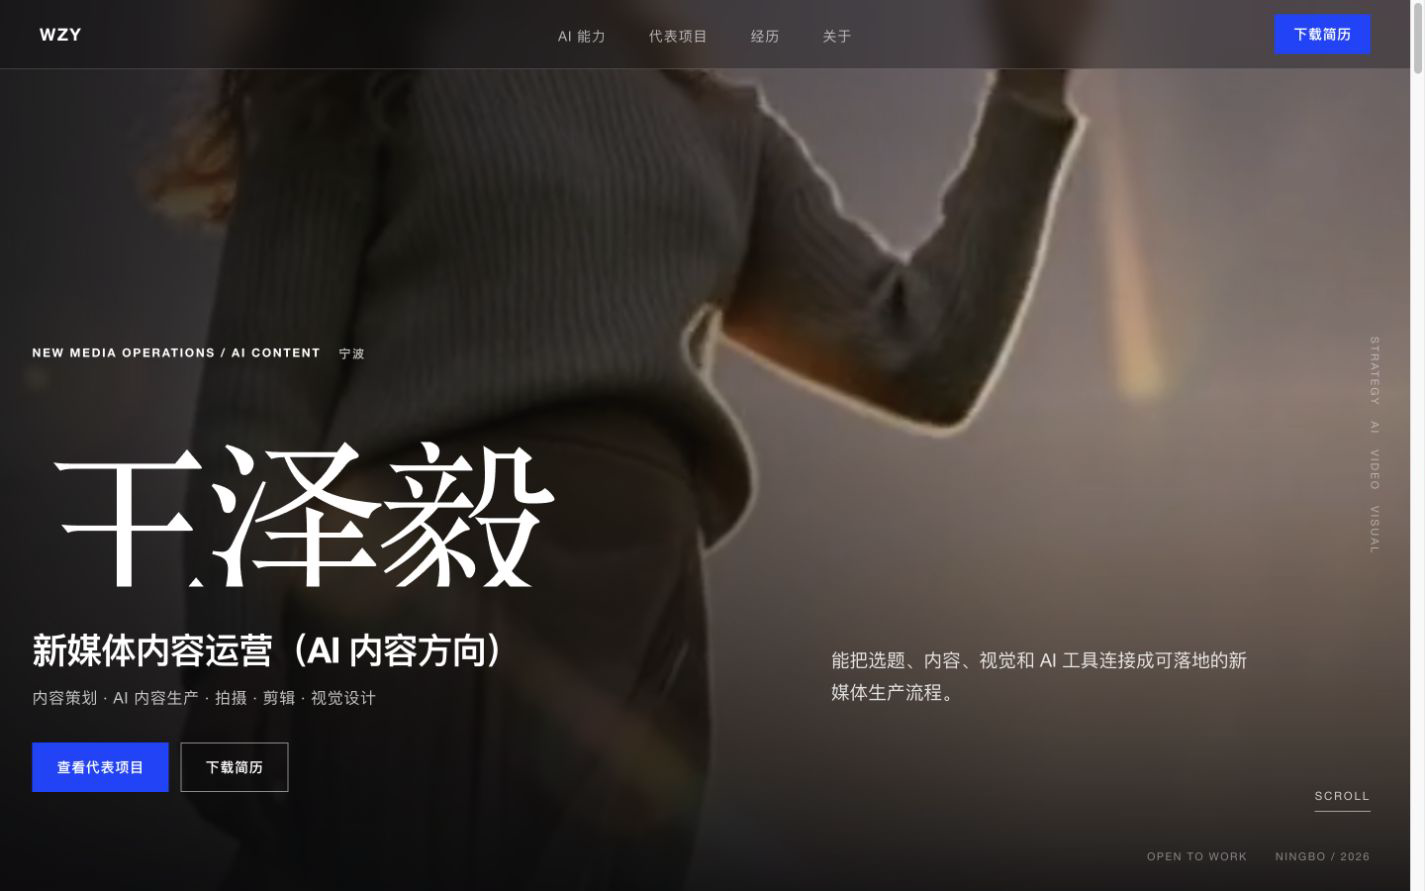
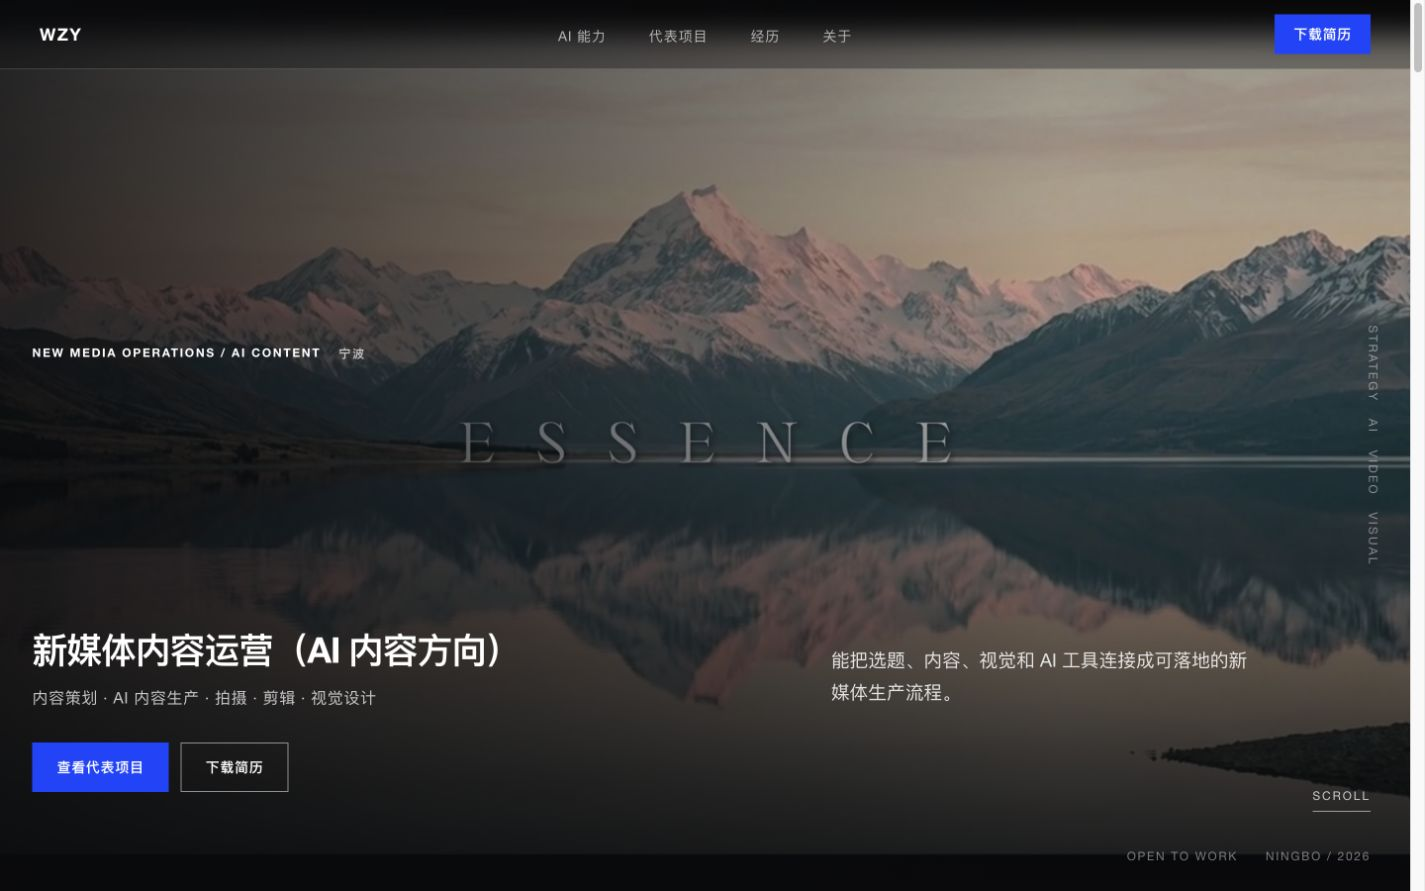
fix: complete responsive accessibility review

diff --git a/src/styles.css b/src/styles.css
@@ -5,6 +5,7 @@
   --ivory-bright: #fffdf8;
   --cobalt: #1747ff;
   --cobalt-deep: #1036c9;
+  --cobalt-on-dark: #8aa3ff;
   --gray-900: #25272d;
   --gray-700: #5e626b;
   --gray-500: #8e9299;
@@ -473,7 +474,7 @@ button {
   right: 18px;
   margin: 0;
   color: rgba(255, 255, 255, 0.46);
-  font-size: 0.68rem;
+  font-size: 0.75rem;
   letter-spacing: 0.18em;
   transform: translate(42%, -50%) rotate(90deg);
 }
@@ -485,7 +486,7 @@ button {
   display: flex;
   gap: 28px;
   color: rgba(255, 255, 255, 0.46);
-  font-size: 0.68rem;
+  font-size: 0.75rem;
   letter-spacing: 0.14em;
 }
 
@@ -496,7 +497,7 @@ button {
   padding-bottom: 8px;
   border-bottom: 1px solid rgba(255, 255, 255, 0.55);
   color: rgba(255, 255, 255, 0.76);
-  font-size: 0.72rem;
+  font-size: 0.75rem;
   letter-spacing: 0.16em;
   text-decoration: none;
 }
@@ -584,7 +585,7 @@ button {
   min-height: 5.2em;
   margin: 0 0 24px;
   color: var(--gray-700);
-  font-size: 0.925rem;
+  font-size: 1rem;
 }
 
 .ai-system__stages ul,
@@ -629,7 +630,7 @@ button {
 
 .ai-system__metric strong {
   margin-bottom: auto;
-  color: var(--cobalt);
+  color: var(--cobalt-on-dark);
   font-family: var(--display);
   font-size: clamp(4rem, 7vw, 7rem);
   font-weight: 400;
@@ -645,7 +646,7 @@ button {
 .ai-system__metric p {
   margin: 0;
   color: rgba(255, 255, 255, 0.54);
-  font-size: 0.85rem;
+  font-size: 1rem;
 }
 
 .ai-system__deliverables {
@@ -678,7 +679,7 @@ button {
 
 .ai-system__tabs button span {
   color: var(--gray-500);
-  font-size: 0.7rem;
+  font-size: 0.75rem;
 }
 
 .ai-system__tabs button[aria-selected="true"] {
@@ -778,6 +779,7 @@ button {
 
 .featured-cases__heading > .section__eyebrow {
   grid-column: 1 / 4;
+  color: var(--cobalt-on-dark);
 }
 
 .featured-cases__heading > div {
@@ -817,6 +819,7 @@ button {
   background: var(--ink-soft);
   color: #fff;
   cursor: pointer;
+  min-width: 0;
 }
 
 .featured-cases__case[data-layout="offset"] .featured-cases__media {
@@ -847,12 +850,13 @@ button {
   bottom: 16px;
   padding: 5px 8px;
   background: var(--cobalt);
-  font-size: 0.68rem;
+  font-size: 0.75rem;
   letter-spacing: 0.13em;
 }
 
 .featured-cases__copy {
   grid-column: 9 / 13;
+  min-width: 0;
   padding-bottom: 4px;
 }
 
@@ -868,7 +872,7 @@ button {
   padding-top: 14px;
   border-top: 1px solid var(--line-dark);
   color: rgba(255, 255, 255, 0.52);
-  font-size: 0.7rem;
+  font-size: 0.75rem;
   letter-spacing: 0.1em;
 }
 
@@ -883,10 +887,11 @@ button {
   font-weight: 400;
   letter-spacing: -0.055em;
   line-height: 1;
+  overflow-wrap: anywhere;
 }
 
 .featured-cases__role {
-  color: var(--cobalt);
+  color: var(--cobalt-on-dark);
   font-weight: 650;
 }
 
@@ -938,7 +943,7 @@ button {
 .featured-cases__archive summary span:last-child {
   color: var(--gray-500);
   font-family: var(--sans);
-  font-size: 0.72rem;
+  font-size: 0.75rem;
   letter-spacing: 0.12em;
 }
 
@@ -974,7 +979,7 @@ button {
 .featured-cases__archive-grid article > p {
   margin: 15px 0 3px;
   color: var(--gray-500);
-  font-size: 0.72rem;
+  font-size: 0.75rem;
   letter-spacing: 0.08em;
 }
 
@@ -1029,7 +1034,7 @@ button {
 .case-dialog__header > p {
   margin: 0;
   color: var(--gray-500);
-  font-size: 0.72rem;
+  font-size: 0.75rem;
   letter-spacing: 0.1em;
 }
 
@@ -1069,7 +1074,7 @@ button {
 
 .case-dialog__body > section h3 {
   margin: 0 0 24px;
-  color: var(--cobalt);
+  color: var(--cobalt-on-dark);
   font-size: 0.75rem;
   letter-spacing: 0.12em;
 }
@@ -1218,14 +1223,14 @@ button {
 
 .career-profile__skills article > span {
   color: var(--cobalt);
-  font-size: 0.72rem;
+  font-size: 0.75rem;
   letter-spacing: 0.1em;
 }
 
 .career-profile__skills article p {
   margin: 10px 0 18px;
   color: var(--gray-700);
-  font-size: 0.925rem;
+  font-size: 1rem;
 }
 
 /* Personal finish and contact */
@@ -1266,6 +1271,7 @@ button {
 
 .profile-contact__content {
   grid-column: 8 / 13;
+  min-width: 0;
   min-height: 100%;
   display: flex;
   flex-direction: column;
@@ -1306,6 +1312,7 @@ button {
 }
 
 .profile-contact__actions > a:not(.button) {
+  min-width: 0;
   display: flex;
   align-items: baseline;
   justify-content: space-between;
@@ -1313,6 +1320,11 @@ button {
   padding: 18px 0;
   border-top: 1px solid rgba(255, 255, 255, 0.28);
   text-decoration: none;
+}
+
+.profile-contact__actions strong {
+  min-width: 0;
+  overflow-wrap: anywhere;
 }
 
 .profile-contact__actions > a span,
@@ -1530,8 +1542,8 @@ html[data-motion-ready] main > section[data-revealed] [data-reveal] {
 
   .site-header {
     min-height: 62px;
-    grid-template-columns: 1fr auto;
-    gap: 10px;
+    grid-template-columns: minmax(0, 1fr) auto auto;
+    gap: 6px;
     padding-inline: 18px;
   }
 
@@ -1540,11 +1552,17 @@ html[data-motion-ready] main > section[data-revealed] [data-reveal] {
   }
 
   .site-header__toggle {
-    grid-column: 2;
+    grid-column: 3;
+    grid-row: 1;
   }
 
   .button--header {
-    display: none;
+    grid-column: 2;
+    grid-row: 1;
+    min-height: 40px;
+    padding-inline: 10px;
+    font-size: 0.875rem;
+    white-space: nowrap;
   }
 
   .hero {
@@ -1603,7 +1621,7 @@ html[data-motion-ready] main > section[data-revealed] [data-reveal] {
   .hero__actions .button {
     min-width: 0;
     padding-inline: 12px;
-    font-size: 0.8rem;
+    font-size: 0.875rem;
   }
 
   .hero__rail,
@@ -1709,6 +1727,13 @@ html[data-motion-ready] main > section[data-revealed] [data-reveal] {
     display: flex;
     flex-direction: column;
     gap: 30px;
+  }
+
+  .featured-cases__case > *,
+  .featured-cases__heading > div,
+  .profile-contact__actions > a:not(.button),
+  .profile-contact__wechat > * {
+    min-width: 0;
   }
 
   .featured-cases__media,
@@ -1839,7 +1864,7 @@ html[data-motion-ready] main > section[data-revealed] [data-reveal] {
 
   .hero__actions .button {
     padding-inline: 8px;
-    font-size: 0.72rem;
+    font-size: 0.875rem;
   }
 
   .featured-cases__archive-grid {
@@ -1848,6 +1873,11 @@ html[data-motion-ready] main > section[data-revealed] [data-reveal] {
 
   .profile-contact__actions > a:not(.button) {
     display: grid;
+    justify-content: stretch;
+  }
+
+  .profile-contact__actions > a:not(.button) strong {
+    text-align: left;
   }
 }
 

diff --git a/src/components/IntroCurtain.jsx b/src/components/IntroCurtain.jsx
@@ -3,15 +3,31 @@ import { useReducedMotion } from "../hooks/useReducedMotion";
 
 const INTRO_SESSION_KEY = "wzy-intro-seen";
 
+function hasSeenIntro() {
+  if (typeof window === "undefined") return false;
+
+  try {
+    return window.sessionStorage.getItem(INTRO_SESSION_KEY) === "true";
+  } catch {
+    return false;
+  }
+}
+
+function rememberIntro() {
+  try {
+    window.sessionStorage.setItem(INTRO_SESSION_KEY, "true");
+  } catch {
+    // Storage can be disabled by privacy settings; the intro still works for this render.
+  }
+}
+
 export function IntroCurtain() {
   const reducedMotion = useReducedMotion();
-  const [visible, setVisible] = useState(
-    () => typeof window === "undefined" || window.sessionStorage.getItem(INTRO_SESSION_KEY) !== "true",
-  );
+  const [visible, setVisible] = useState(() => !hasSeenIntro());
 
   useEffect(() => {
     if (visible && !reducedMotion) {
-      window.sessionStorage.setItem(INTRO_SESSION_KEY, "true");
+      rememberIntro();
     }
   }, [reducedMotion, visible]);
 

diff --git a/src/components/IntroCurtain.test.jsx b/src/components/IntroCurtain.test.jsx
@@ -46,4 +46,16 @@ describe("IntroCurtain", () => {
     const { container } = render(<IntroCurtain />);
     expect(container).toBeEmptyDOMElement();
   });
+
+  it("keeps the site renderable when session storage is blocked", () => {
+    vi.spyOn(Storage.prototype, "getItem").mockImplementation(() => {
+      throw new DOMException("Storage is blocked", "SecurityError");
+    });
+    vi.spyOn(Storage.prototype, "setItem").mockImplementation(() => {
+      throw new DOMException("Storage is blocked", "SecurityError");
+    });
+
+    expect(() => render(<IntroCurtain />)).not.toThrow();
+    expect(screen.getByText("WZY")).toBeInTheDocument();
+  });
 });

diff --git a/design-qa.md b/design-qa.md
@@ -13,7 +13,7 @@ The visual system is deliberately job-first: the hero names the target role, AI 
 - Mobile viewport target: 390 × 844 CSS px.
 - Mobile captured page area: `work/qa/hr-redesign-mobile.png` — 375 × 812 px after scrollbar and browser viewport chrome.
 - Narrow responsive check: 320 × 720 CSS px.
-- 200% desktop text/reflow equivalent: 720 × 900 CSS px.
+- True 200% text enlargement: 320 × 720 CSS px with a 32 px root font.
 - Local implementation URL: `http://127.0.0.1:4173/`.
 
 ## Baseline and corrective loop
@@ -32,6 +32,9 @@ After the five-chapter React shell replaced the previous sections, the legacy st
 - Limited motion to the 0.87-second session intro, short mask/opacity/translation reveals, image scale on intent, and section-aware navigation transitions.
 - Added complete reduced-motion overrides and preserved all content on poster/video failure.
 - Tightened the narrow hero so both project and résumé actions remain in the 320 px first viewport.
+- Kept a compact résumé action persistently visible in the mobile header.
+- Added shrinkable project/contact containers, long-label wrapping, and a lighter blue text token for accessible contrast on dark surfaces.
+- Guarded session storage access so privacy-blocked storage cannot interrupt the application render.
 
 ## Visual review
 
@@ -46,7 +49,7 @@ After the five-chapter React shell replaced the previous sections, the legacy st
 - 1440 px: `clientWidth === scrollWidth` at 1425 px; no horizontal overflow.
 - 390 px: `clientWidth === scrollWidth` at 375 px; hero height is exactly 844 px; the résumé action ends at 557.5 px and remains in the first viewport.
 - 320 px: `clientWidth === scrollWidth` at 305 px; hero height is 720.43 px; the résumé action begins at 574.43 px and remains operable in the first viewport.
-- 200% equivalent: at 705 px content width, `clientWidth === scrollWidth`; career copy and all contact links remain visible and operable.
+- True 200% text enlargement at 320 px: with a 32 px root font, `clientWidth === scrollWidth` at 305 px; case media/copy and contact content remain within the 292 px page column, while the persistent résumé action remains visible.
 - Mobile menu: toggles to `aria-expanded="true"` and displays the four approved navigation labels.
 - AI tabs: selecting `02 视频` updates both selected state and the single tabpanel to `AI 视频`.
 - Case layer: opens as a named modal, renders all five required evidence sections, and uses `preload="metadata"` for video.
@@ -58,7 +61,7 @@ After the five-chapter React shell replaced the previous sections, the legacy st
 
 - P0: none.
 - P1: none.
-- P2: none after the mobile first-viewport correction.
+- P2: none after correcting enlarged-text clipping, dark-surface text contrast, and the persistent mobile résumé action found during independent review.
 - P3: the supplied hero footage includes its own embedded English typography. The overlay remains legible across tested frames; a future clean master would provide more control but is not required for this release.
 
 ## Final status
